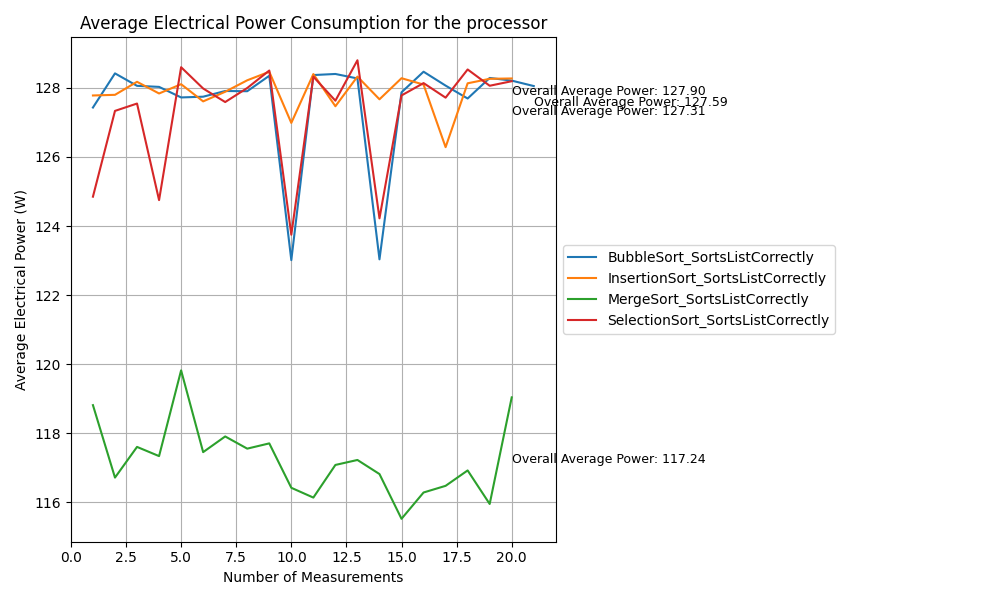
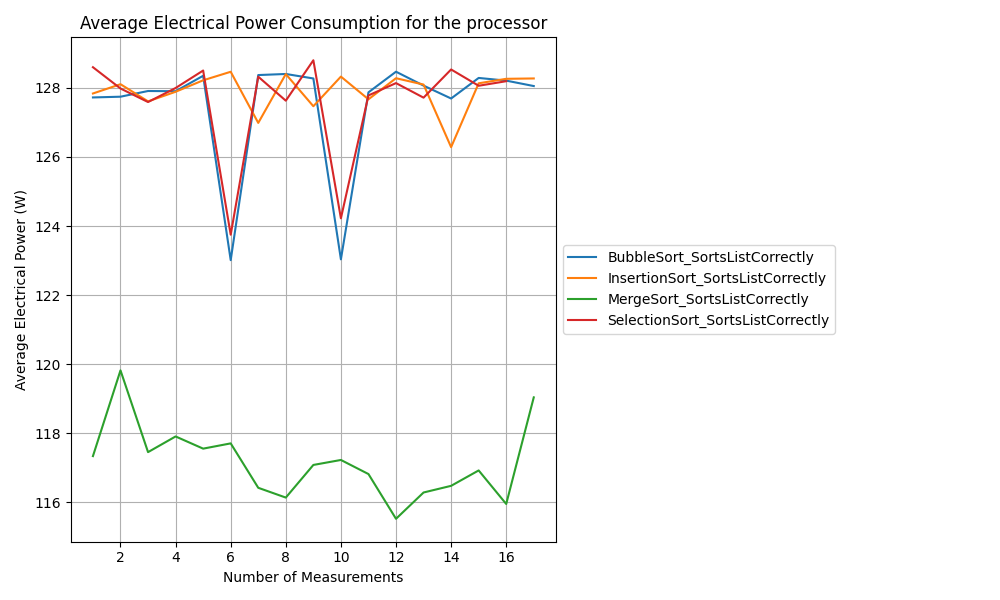
new graph

diff --git a/CpuIntensiveApp/Plot-Data/plot_results_4_metric.py b/CpuIntensiveApp/Plot-Data/plot_results_4_metric.py
@@ -57,7 +57,7 @@ else:
 
         # Calculate and annotate the average value for this test
         avg_value = group[metric].mean()
-        plt.text(len(group), avg_value, f'Overall Average Power: {avg_value:.2f}', fontsize=9, ha='left', va='center')
+        #plt.text(len(group), avg_value, f'Overall Average Power: {avg_value:.2f}', fontsize=9, ha='left', va='center')
 
     # Adding labels and title
     plt.xlabel('Number of Measurements')
